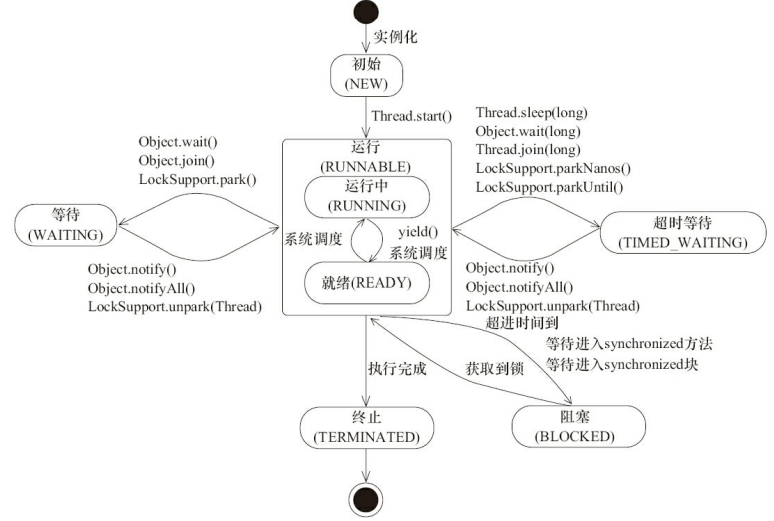
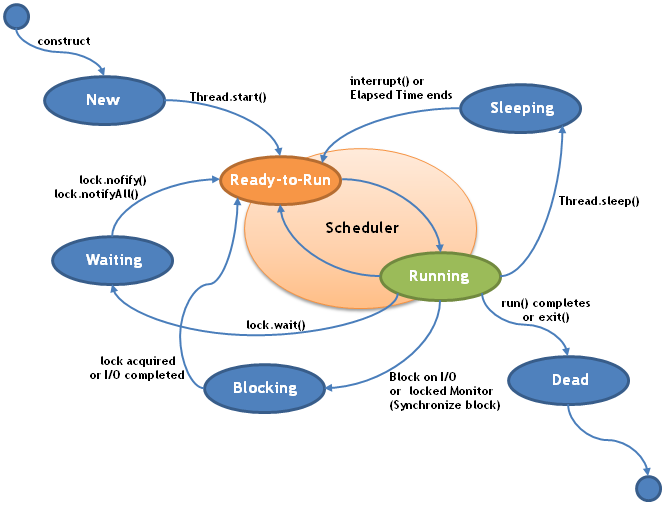
update

Changed region(s): [[0.0, 0.0, 0.991, 1.0], [0.9309, 0.9172, 1.0, 1.0], [0.9009, 0.858, 0.961, 0.8876]]

diff --git a/多线程.md b/多线程.md
@@ -1,4 +1,5 @@
 # 多线程
+<!--email_off-->
 目录
 <!-- toc -->
 
@@ -42,7 +43,7 @@ public class ThreadDemo extends Thread{
 在线程执行期间，会经历多种状态，下面是一个示意图：
 
 ![](images/线程状态.png)
-> 图片来自 https://avaldes.com/java-thread-states-life-cycle-of-java-threads/
+> 图片来自 Java 并发编程的艺术
 
 下面是线程生命周期对应的几种状态
 * New - 初始状态，线程刚被创建，但是还没有调用 `start` 方法
@@ -120,3 +121,28 @@ public enum State {
     TERMINATED;
 }
 ```
+### 获得线程状态
+Thread 类提供了 `getState` 方法来获得线程状态，下面是一个使用示例：
+```java
+public class StateDemo extends Thread {
+
+    @Override
+    public void run() {
+        System.out.printf("%-18s %s\n","in run method:", getState());
+    }
+
+    public static void main(String[] args) throws InterruptedException {
+        Thread thread = new StateDemo();
+        System.out.printf("%-18s %s\n","init:",  thread.getState());
+        thread.run();
+        System.out.printf("%-18s %s\n", "after run:", thread.getState());
+        thread.start();
+        System.out.printf("%-18s %s\n","after start:", thread.getState());
+        Thread.sleep(1);
+        System.out.printf("%-18s %s\n","finish:", thread.getState());
+    }
+}
+```
+
+
+<!--email_off-->
